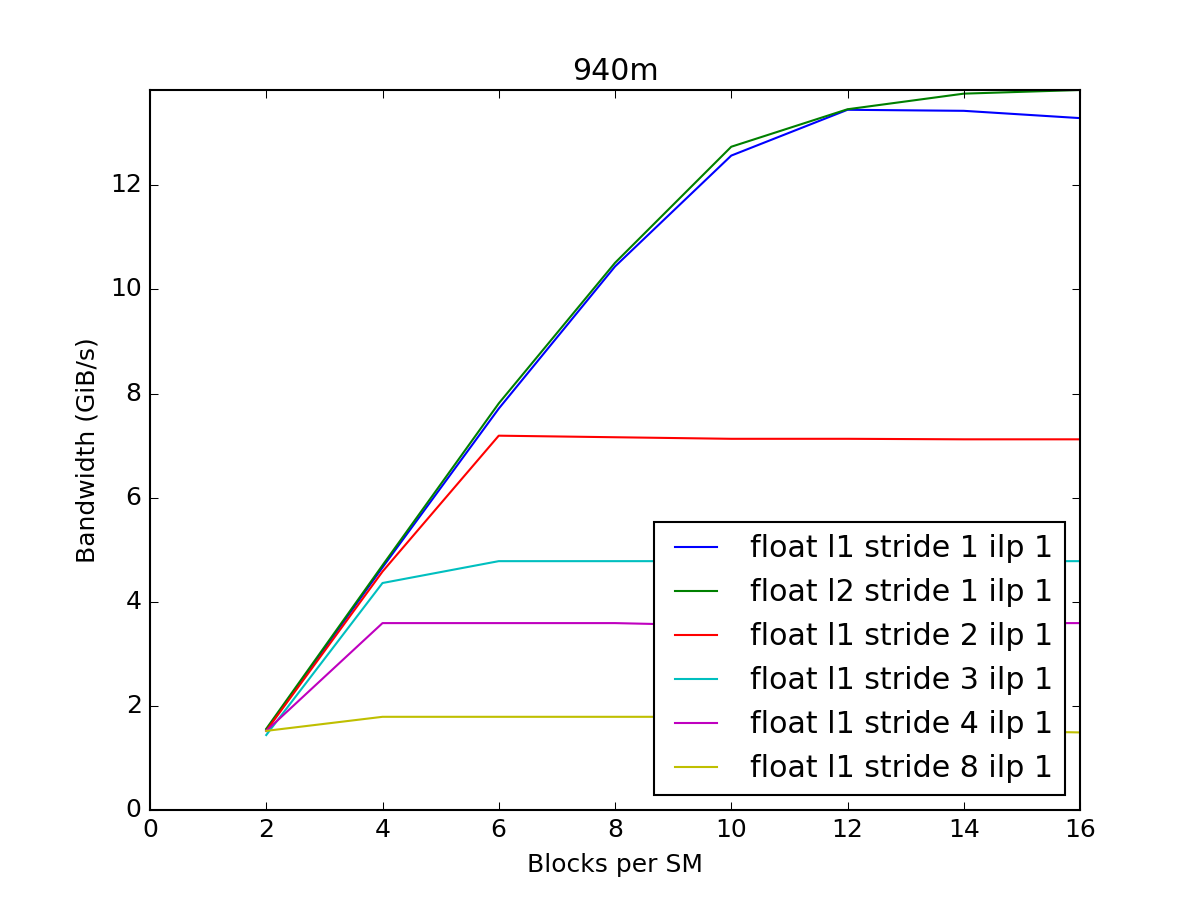
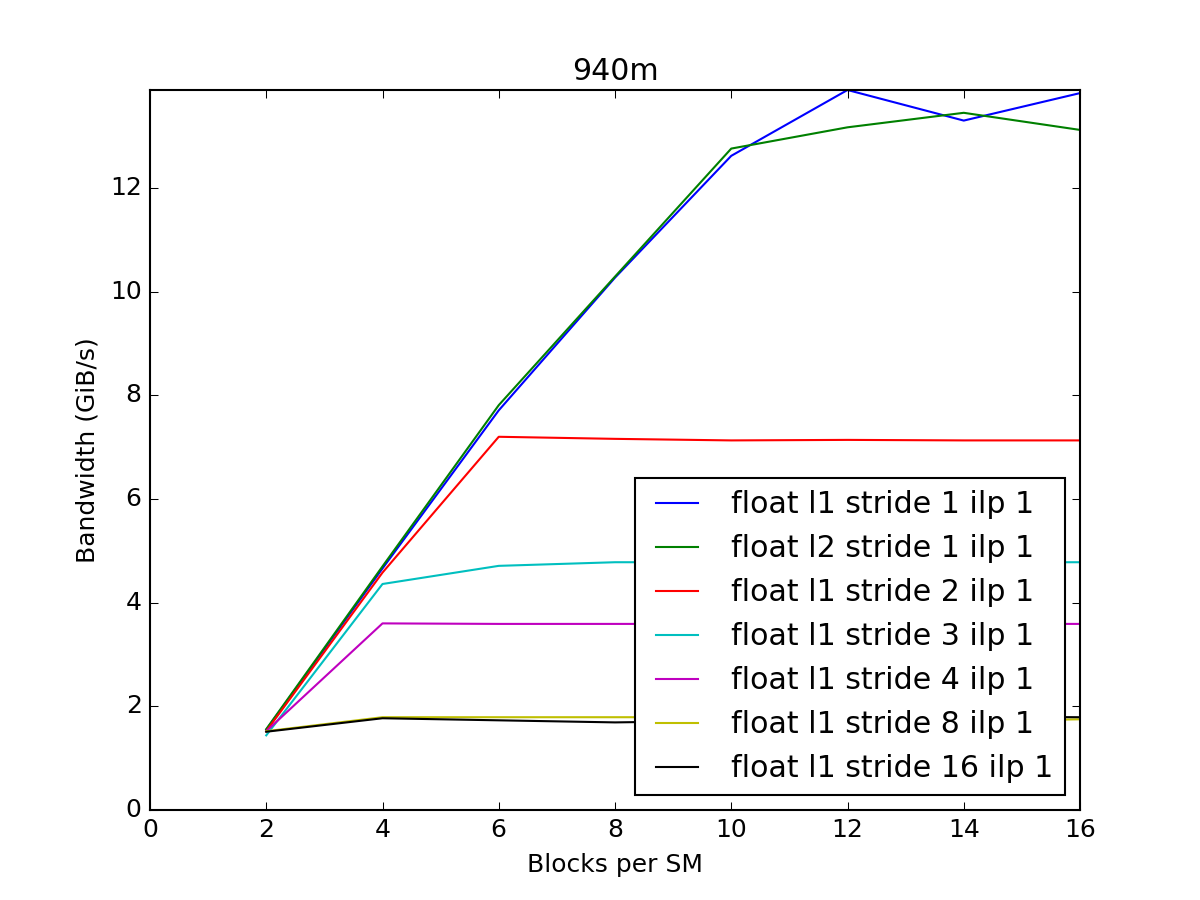
add results for stride 16

diff --git a/gpuexperiments/globalwrite.py b/gpuexperiments/globalwrite.py
@@ -77,7 +77,8 @@ experiments = [
     {'name': 'memcpy_l1_stride2_ilp1_float_bsm{bsm}', 'code': code_template_layout2, 'ilp': 1, 'type': 'float', 'stride': 2},
     {'name': 'memcpy_l1_stride3_ilp1_float_bsm{bsm}', 'code': code_template_layout2, 'ilp': 1, 'type': 'float', 'stride': 3},
     {'name': 'memcpy_l1_stride4_ilp1_float_bsm{bsm}', 'code': code_template_layout2, 'ilp': 1, 'type': 'float', 'stride': 4},
-    {'name': 'memcpy_l1_stride8_ilp1_float_bsm{bsm}', 'code': code_template_layout2, 'ilp': 1, 'type': 'float', 'stride': 8}
+    {'name': 'memcpy_l1_stride8_ilp1_float_bsm{bsm}', 'code': code_template_layout2, 'ilp': 1, 'type': 'float', 'stride': 8},
+    {'name': 'memcpy_l1_stride16_ilp1_float_bsm{bsm}', 'code': code_template_layout2, 'ilp': 1, 'type': 'float', 'stride': 16}
     #{'name': 'memcpy_l2_stride2_ilp1_float_bsm{bsm}', 'code': code_template_layout2, 'ilp': 1, 'type': 'float', 'stride': 2},
 ]
 
